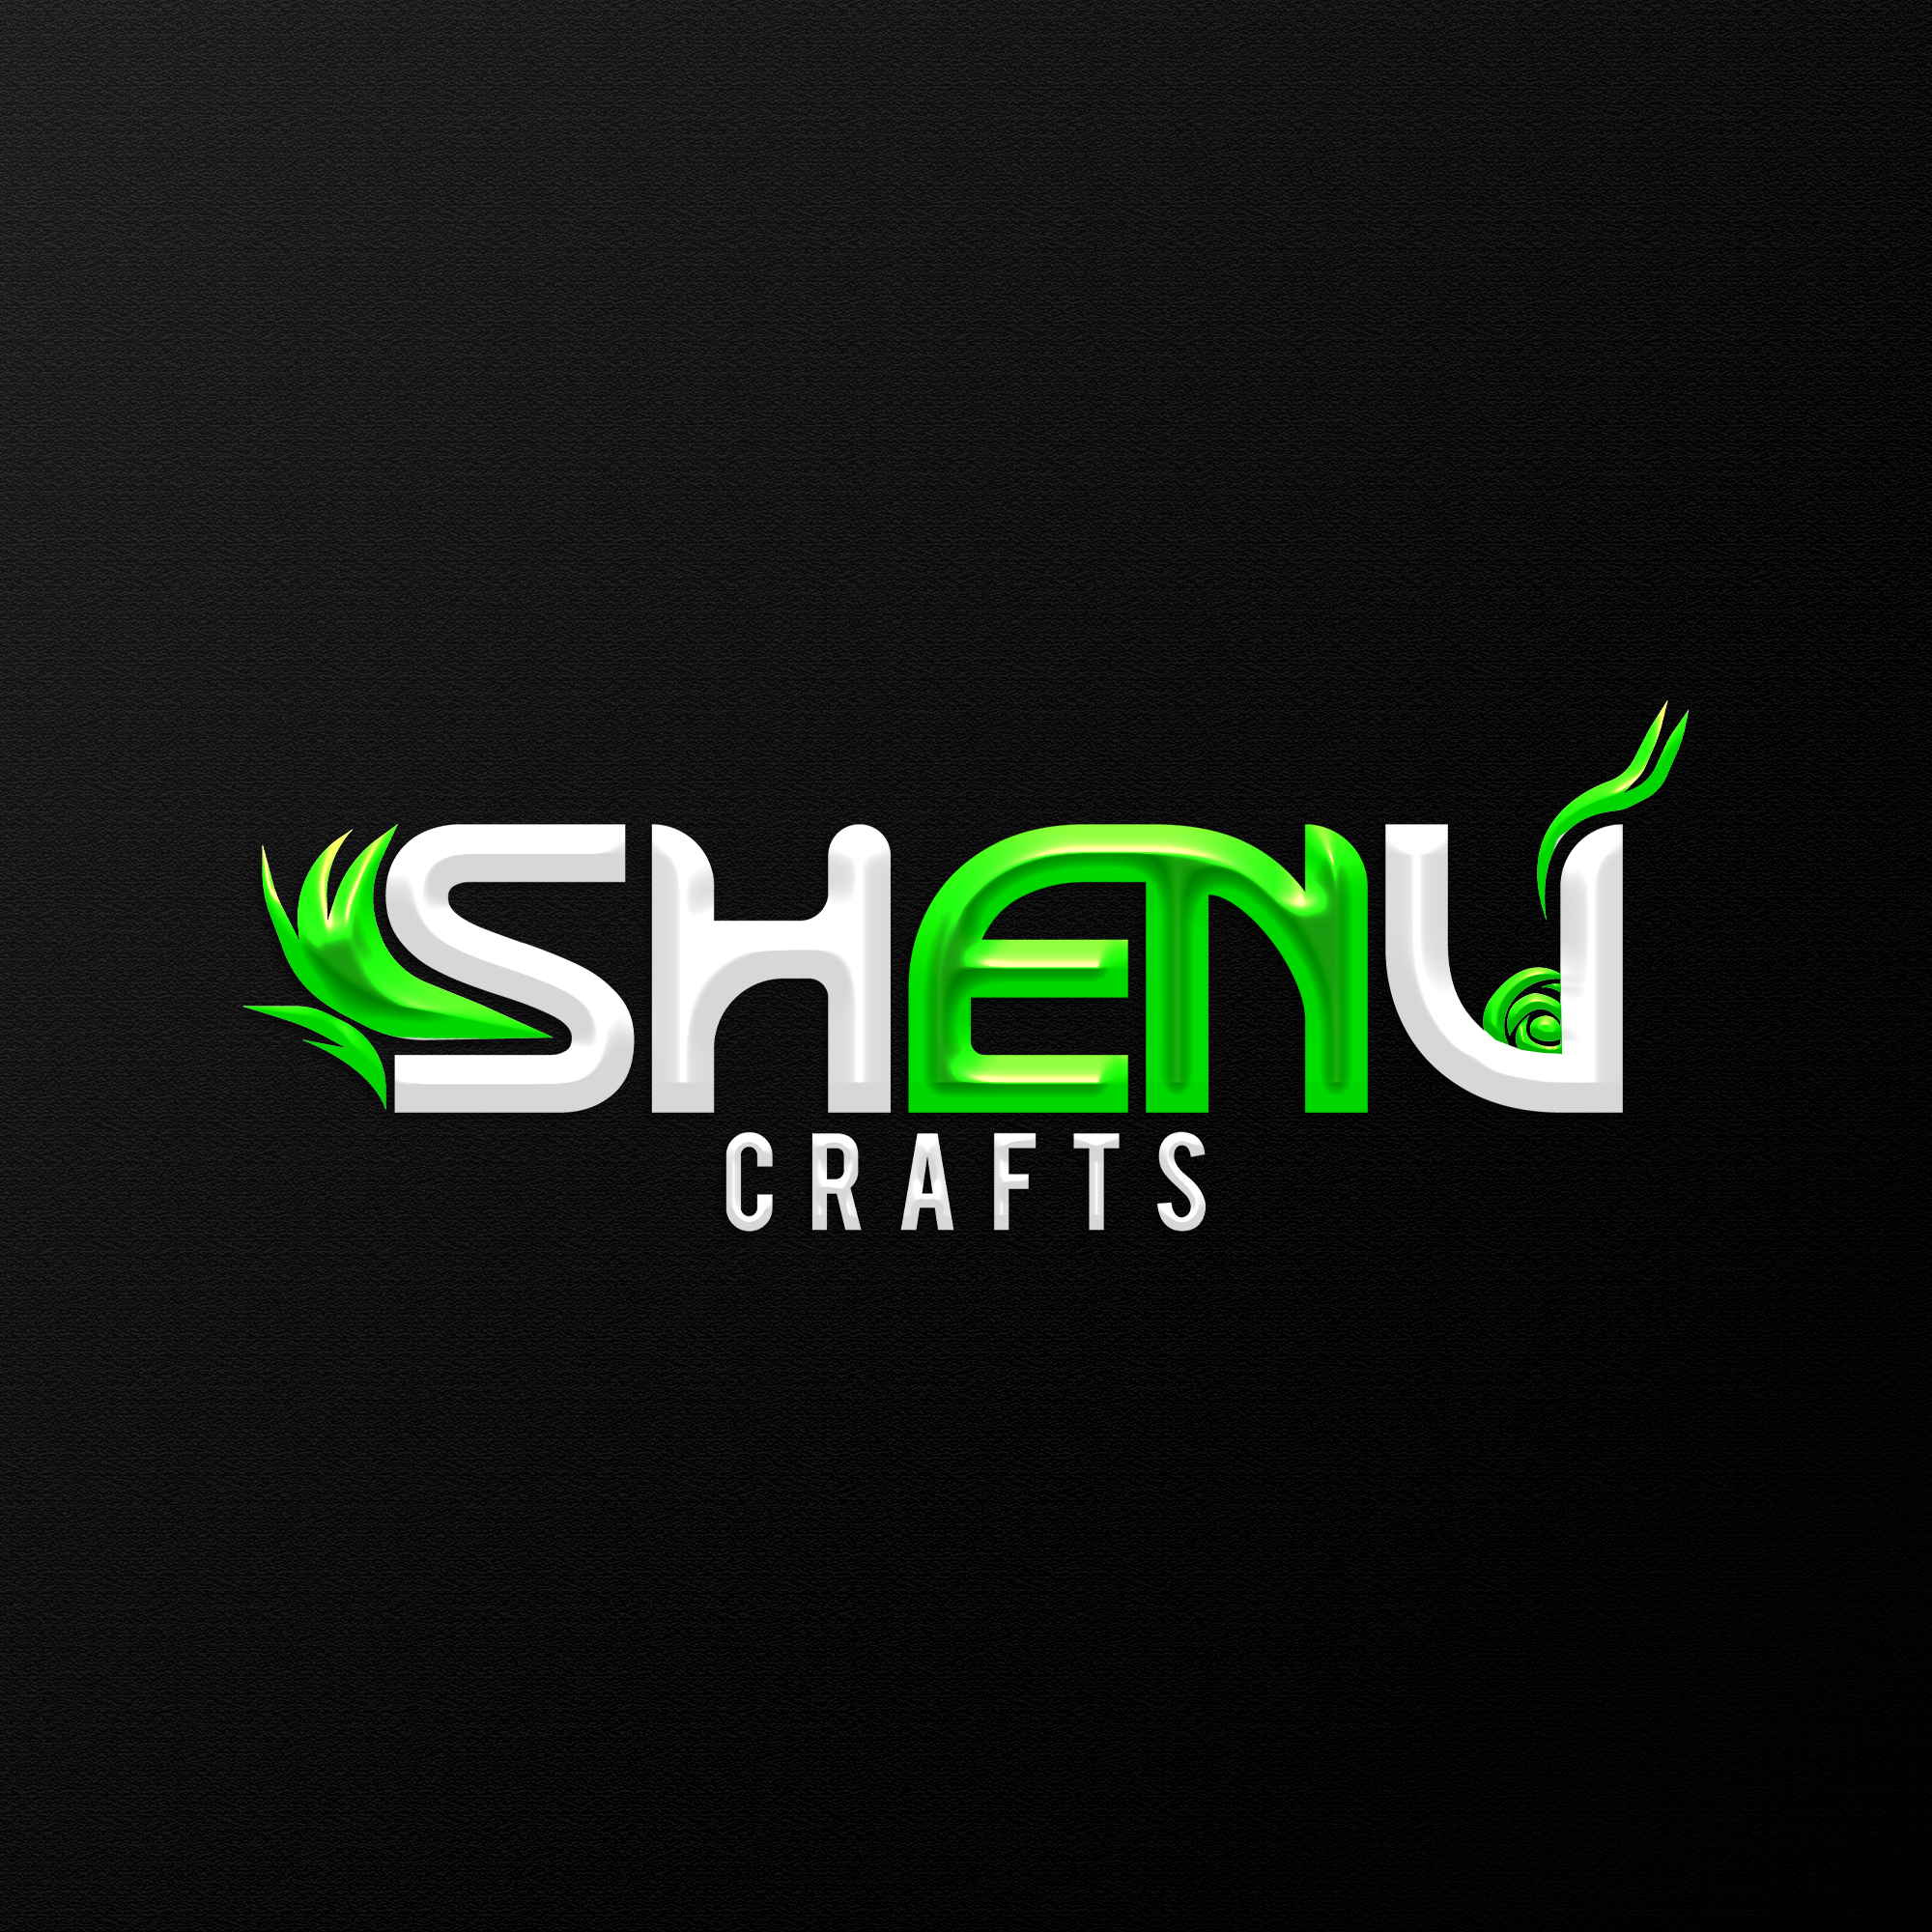
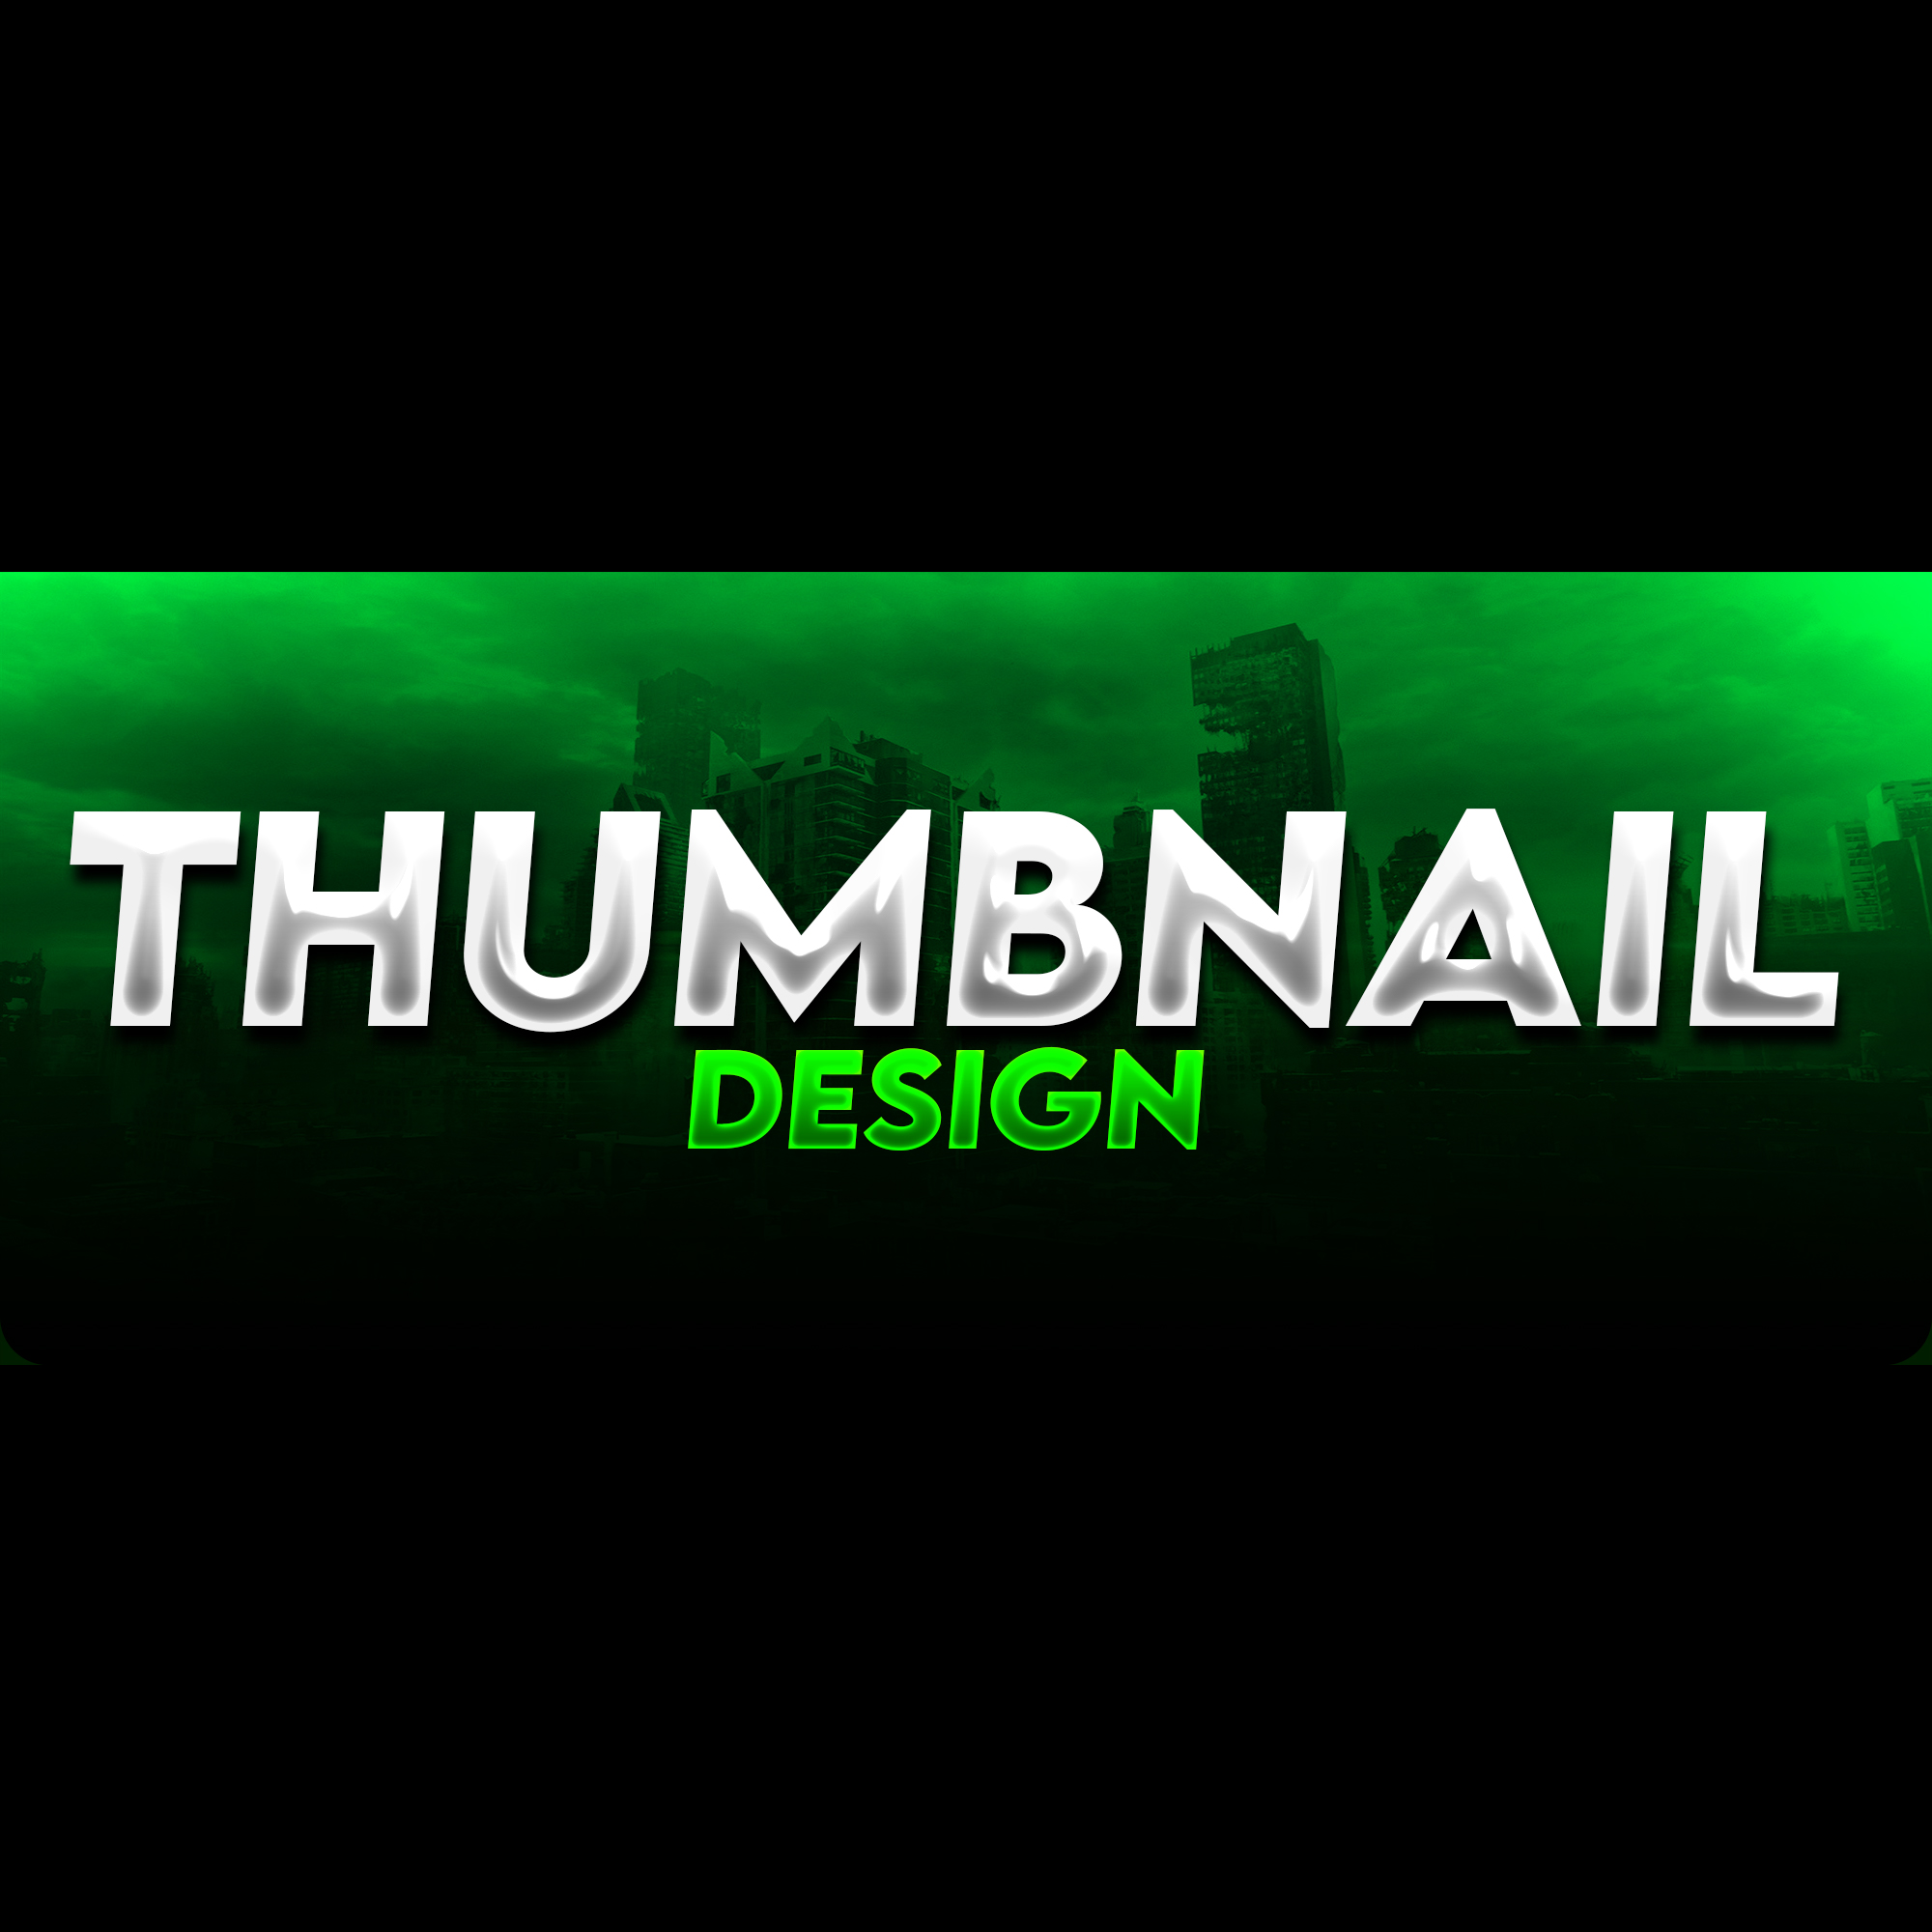
Add files via upload

diff --git a/index.html b/index.html
@@ -112,7 +112,7 @@
 
         <!-- Project Card -->
         <div class="project-card">
-            <img src="project2.jpg" alt="project">
+            <img src="project1.jpg" alt="project">
 
             <div class="project-info">
                 <h3>Logo Design</h3>
@@ -128,7 +128,7 @@
 
         <!-- Project Card -->
         <div class="project-card">
-            <img src="project1.jpg" alt="project">
+            <img src="project2.jpg" alt="project">
 
             <div class="project-info">
                 <h3>Thumbnails</h3>
@@ -138,6 +138,38 @@
                     <a href="https://wa.me/94770759088?text=Hi%20I%20want%20to%20buy%20this%20product" target="_blank">Buy</a>
                     <a href="#contact">Contact</a>
                     <a href="Thumb.html">See More</a>
+                </div>
+            </div>
+        </div>
+
+        <!-- Project Card -->
+        <div class="project-card">
+            <img src="project3.jpg" alt="project">
+
+            <div class="project-info">
+                <h3>Diamond Post</h3>
+                <p>Diamond Price Post for freefire Diamond sallers</p>
+
+                <div class="project-links">
+                    <a href="https://wa.me/94770759088?text=Hi%20I%20want%20to%20buy%20this%20product" target="_blank">Buy</a>
+                    <a href="#contact">Contact</a>
+                    <a href="Diampost.html">See More</a>
+                </div>
+            </div>
+        </div>
+
+        <!-- Project Card -->
+        <div class="project-card">
+            <img src="project4.jpg" alt="project">
+
+            <div class="project-info">
+                <h3>Post Designs</h3>
+                <p>Creative Social Media And Gaming Post for your Bussinuss</p>
+
+                <div class="project-links">
+                    <a href="https://wa.me/94770759088?text=Hi%20I%20want%20to%20buy%20this%20product" target="_blank">Buy</a>
+                    <a href="#contact">Contact</a>
+                    <a href="post.html">See More</a>
                 </div>
             </div>
         </div>

diff --git a/post.html b/post.html
@@ -1,0 +1,33 @@
+<!DOCTYPE html>
+<html>
+<head>
+  <title>Post Designs</title>
+  <link rel="stylesheet" href="style1.css">
+</head>
+<body>
+
+<h1 style="text-align:center; color:white;">All Projects</h1>
+
+<!-- Thumbnails Section -->
+<section class="thumbnails">
+  <h2>Post Designs</h2>
+
+  <div class="grid">
+    <img src="images/post/post1.jpg">
+    <img src="images/post/post2.jpg">
+    <img src="images/post/post3.jpg">
+    <img src="images/post/post4.jpg">
+    <img src="images/post/post5.jpg">
+    <img src="images/post/post6.jpg">
+    <img src="images/post/post7.jpg">
+    <img src="images/post/post8.jpg">
+    <img src="images/post/post9.jpg">
+    <img src="images/post/post10.jpg">
+    <img src="images/post/post11.jpg">
+    <img src="images/post/post12.jpg">
+  </div>
+  <a href="index.html" class="Home-btn">Home</a>
+</section>
+
+</body>
+</html>

diff --git a/Diampost.html b/Diampost.html
@@ -1,0 +1,27 @@
+<!DOCTYPE html>
+<html>
+<head>
+  <title>Diamond Post</title>
+  <link rel="stylesheet" href="style1.css">
+</head>
+<body>
+
+<h1 style="text-align:center; color:white;">All Projects</h1>
+
+<!-- Thumbnails Section -->
+<section class="thumbnails">
+  <h2>Diamond Post Designs</h2>
+
+  <div class="grid">
+    <img src="images/Dimpost/Diam1.jpg">
+    <img src="images/Dimpost/Diam2.jpg">
+    <img src="images/Dimpost/Diam3.jpg">
+    <img src="images/Dimpost/Diam4.jpg">
+    <img src="images/Dimpost/Diam5.jpg">
+
+  </div>
+  <a href="index.html" class="Home-btn">Home</a>
+</section>
+
+</body>
+</html>